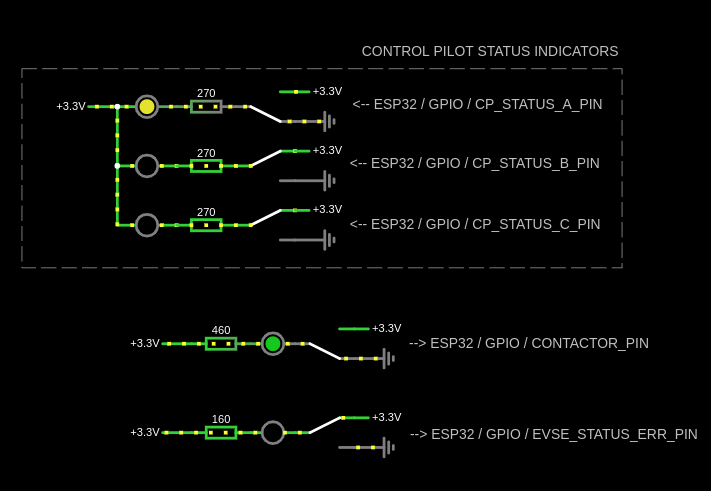
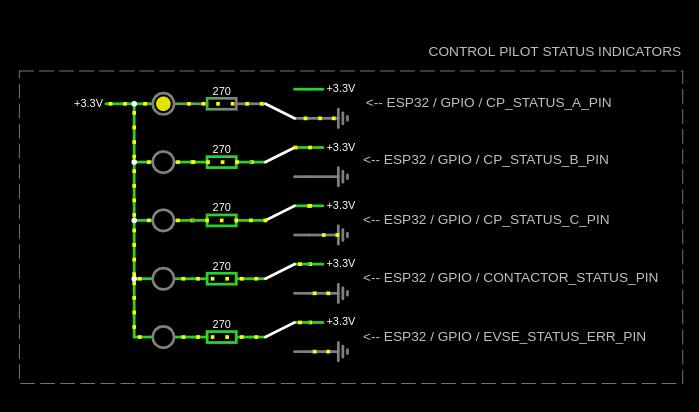
Updated README diagrams

diff --git a/README.md b/README.md
@@ -47,13 +47,13 @@ Detailed specification: CP: _IEC 61851-1:2017, Annex A_, PP: _IEC 61851-1:2017, 
 
 Interactive diagram: https://tinyurl.com/2kqn36ny
 
-![CP_PP](docs/CP-PP.png)
+![CP_PP](docs/CP-PP_inverted.png)
 
 #### 1.B. Contactor drive circuit
 
 Interactive diagram: https://tinyurl.com/2dwejsee
 
-![contactor](docs/contactor.png)
+![contactor](docs/contactor_inverted.png)
 
 ### 2. EVSE SIMULATOR IMPLEMENTATION (built, tested)
 
@@ -61,13 +61,13 @@ Interactive diagram: https://tinyurl.com/2dwejsee
 
 This circuit is designed to simulate ADC readings of the CP and PP circuits.
 
-Interactive diagram: https://tinyurl.com/2pnmm4mg
+Interactive diagram: https://tinyurl.com/2l636mwc
 
-![sim_impl](docs/sim_CP-PP.png)
+![sim_impl](docs/sim_CP-PP_inverted.png)
 
 #### 2.B. Status indicator leds
 
-![sim_leds](docs/sim_status_leds.png)
+![sim_leds](docs/sim_status_leds_inverted.png)
 
 #### 2.C. Finished implementation:
 
